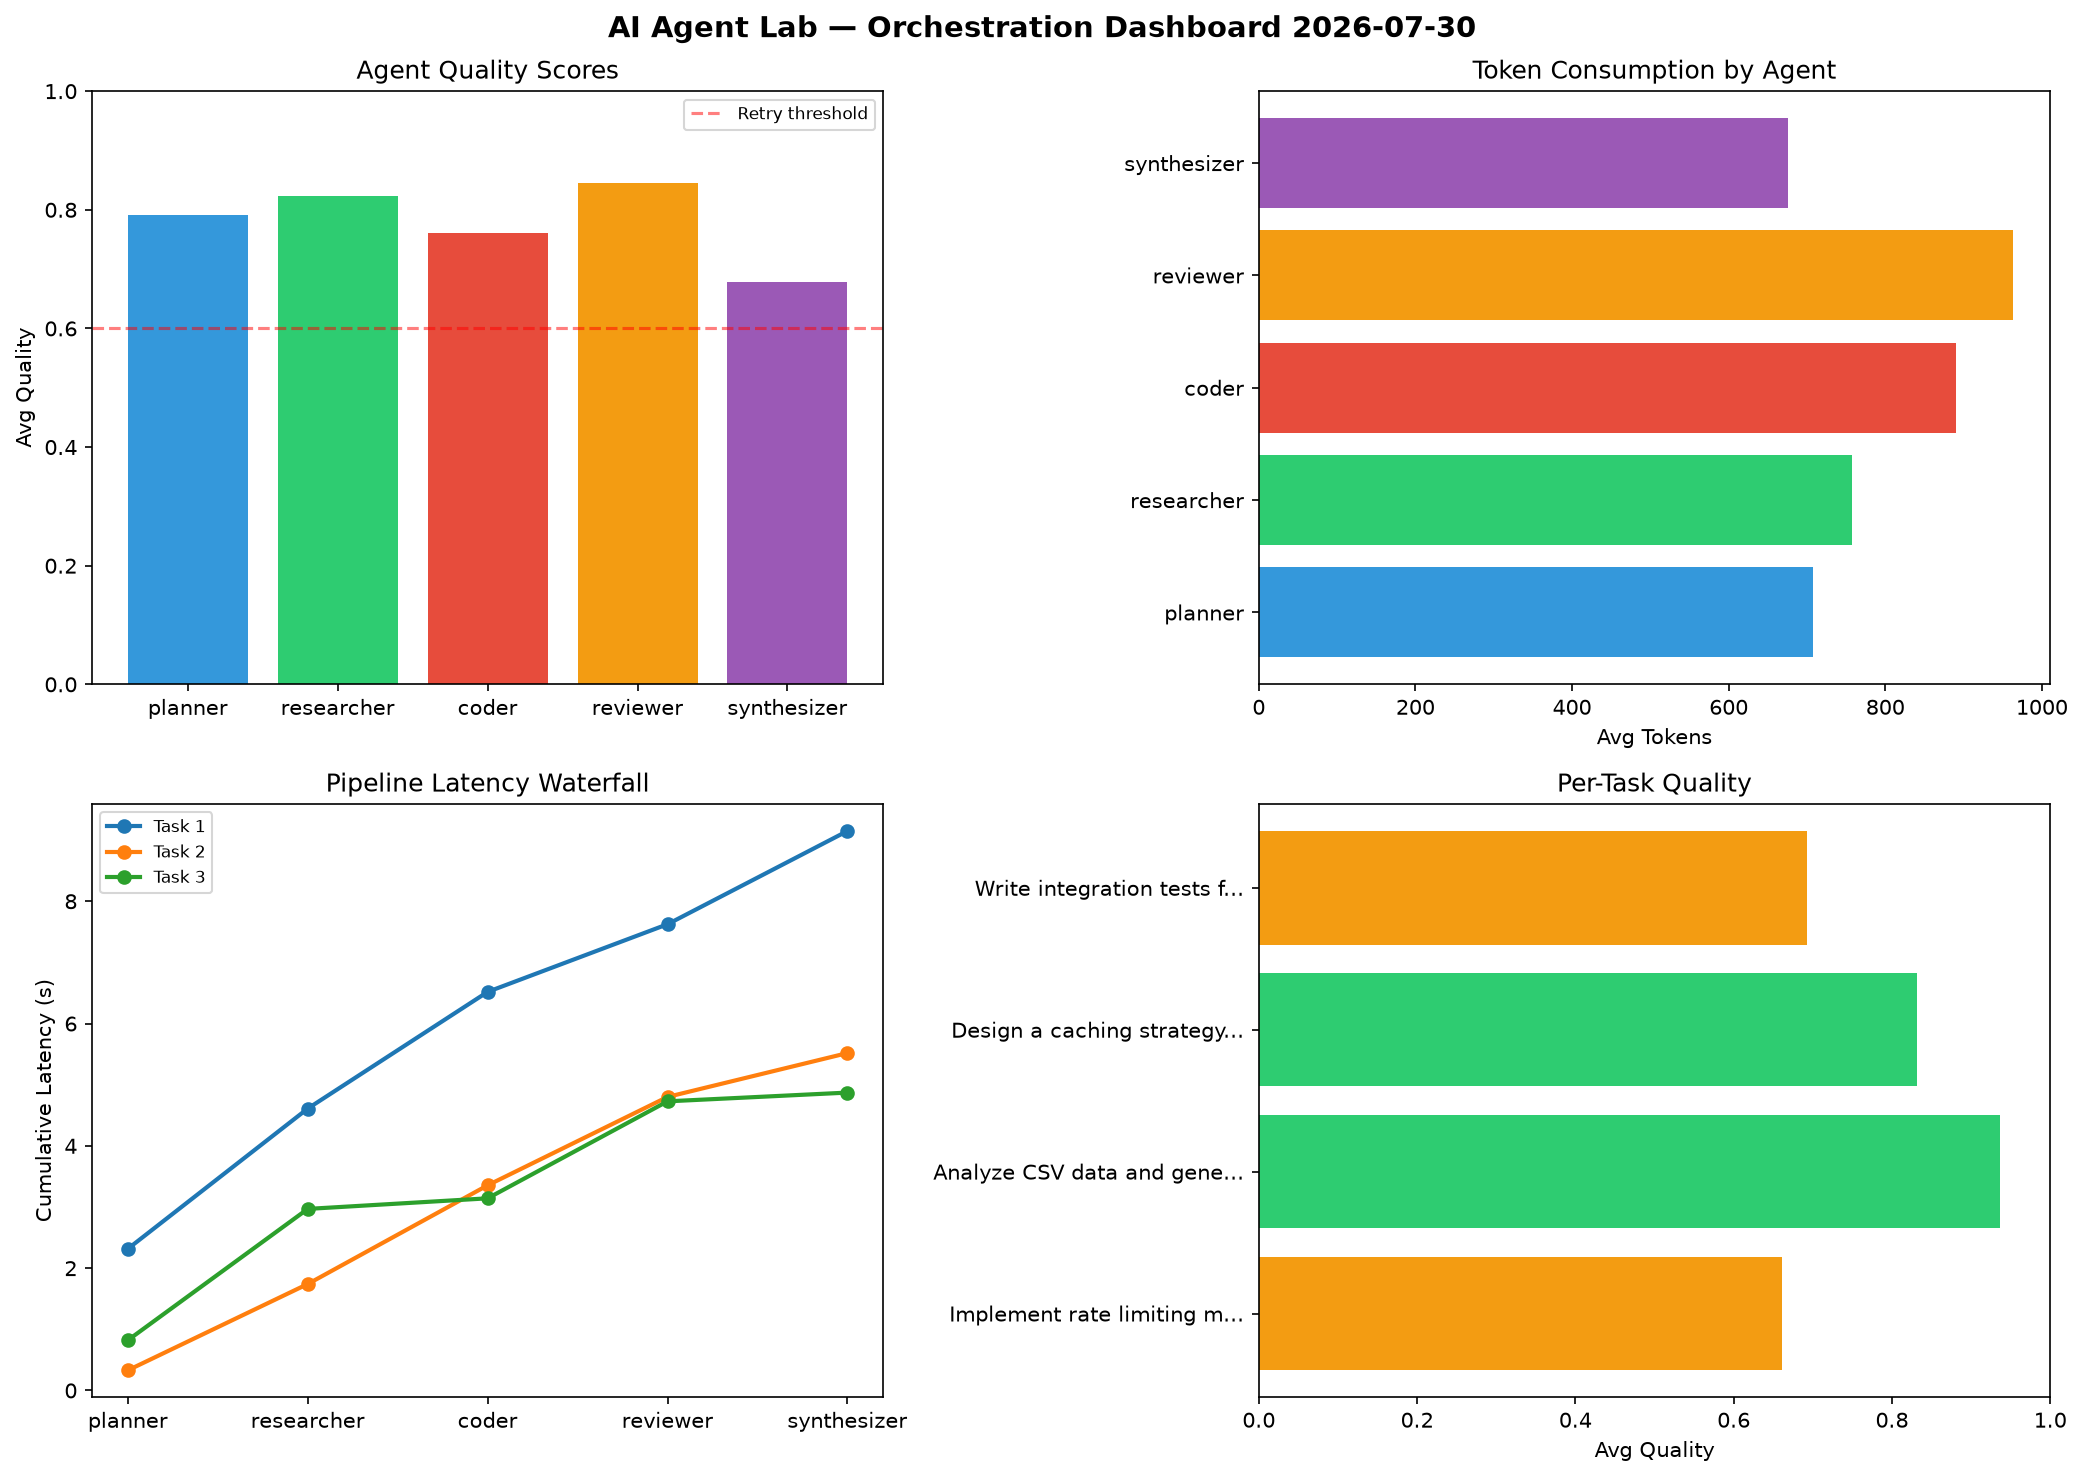
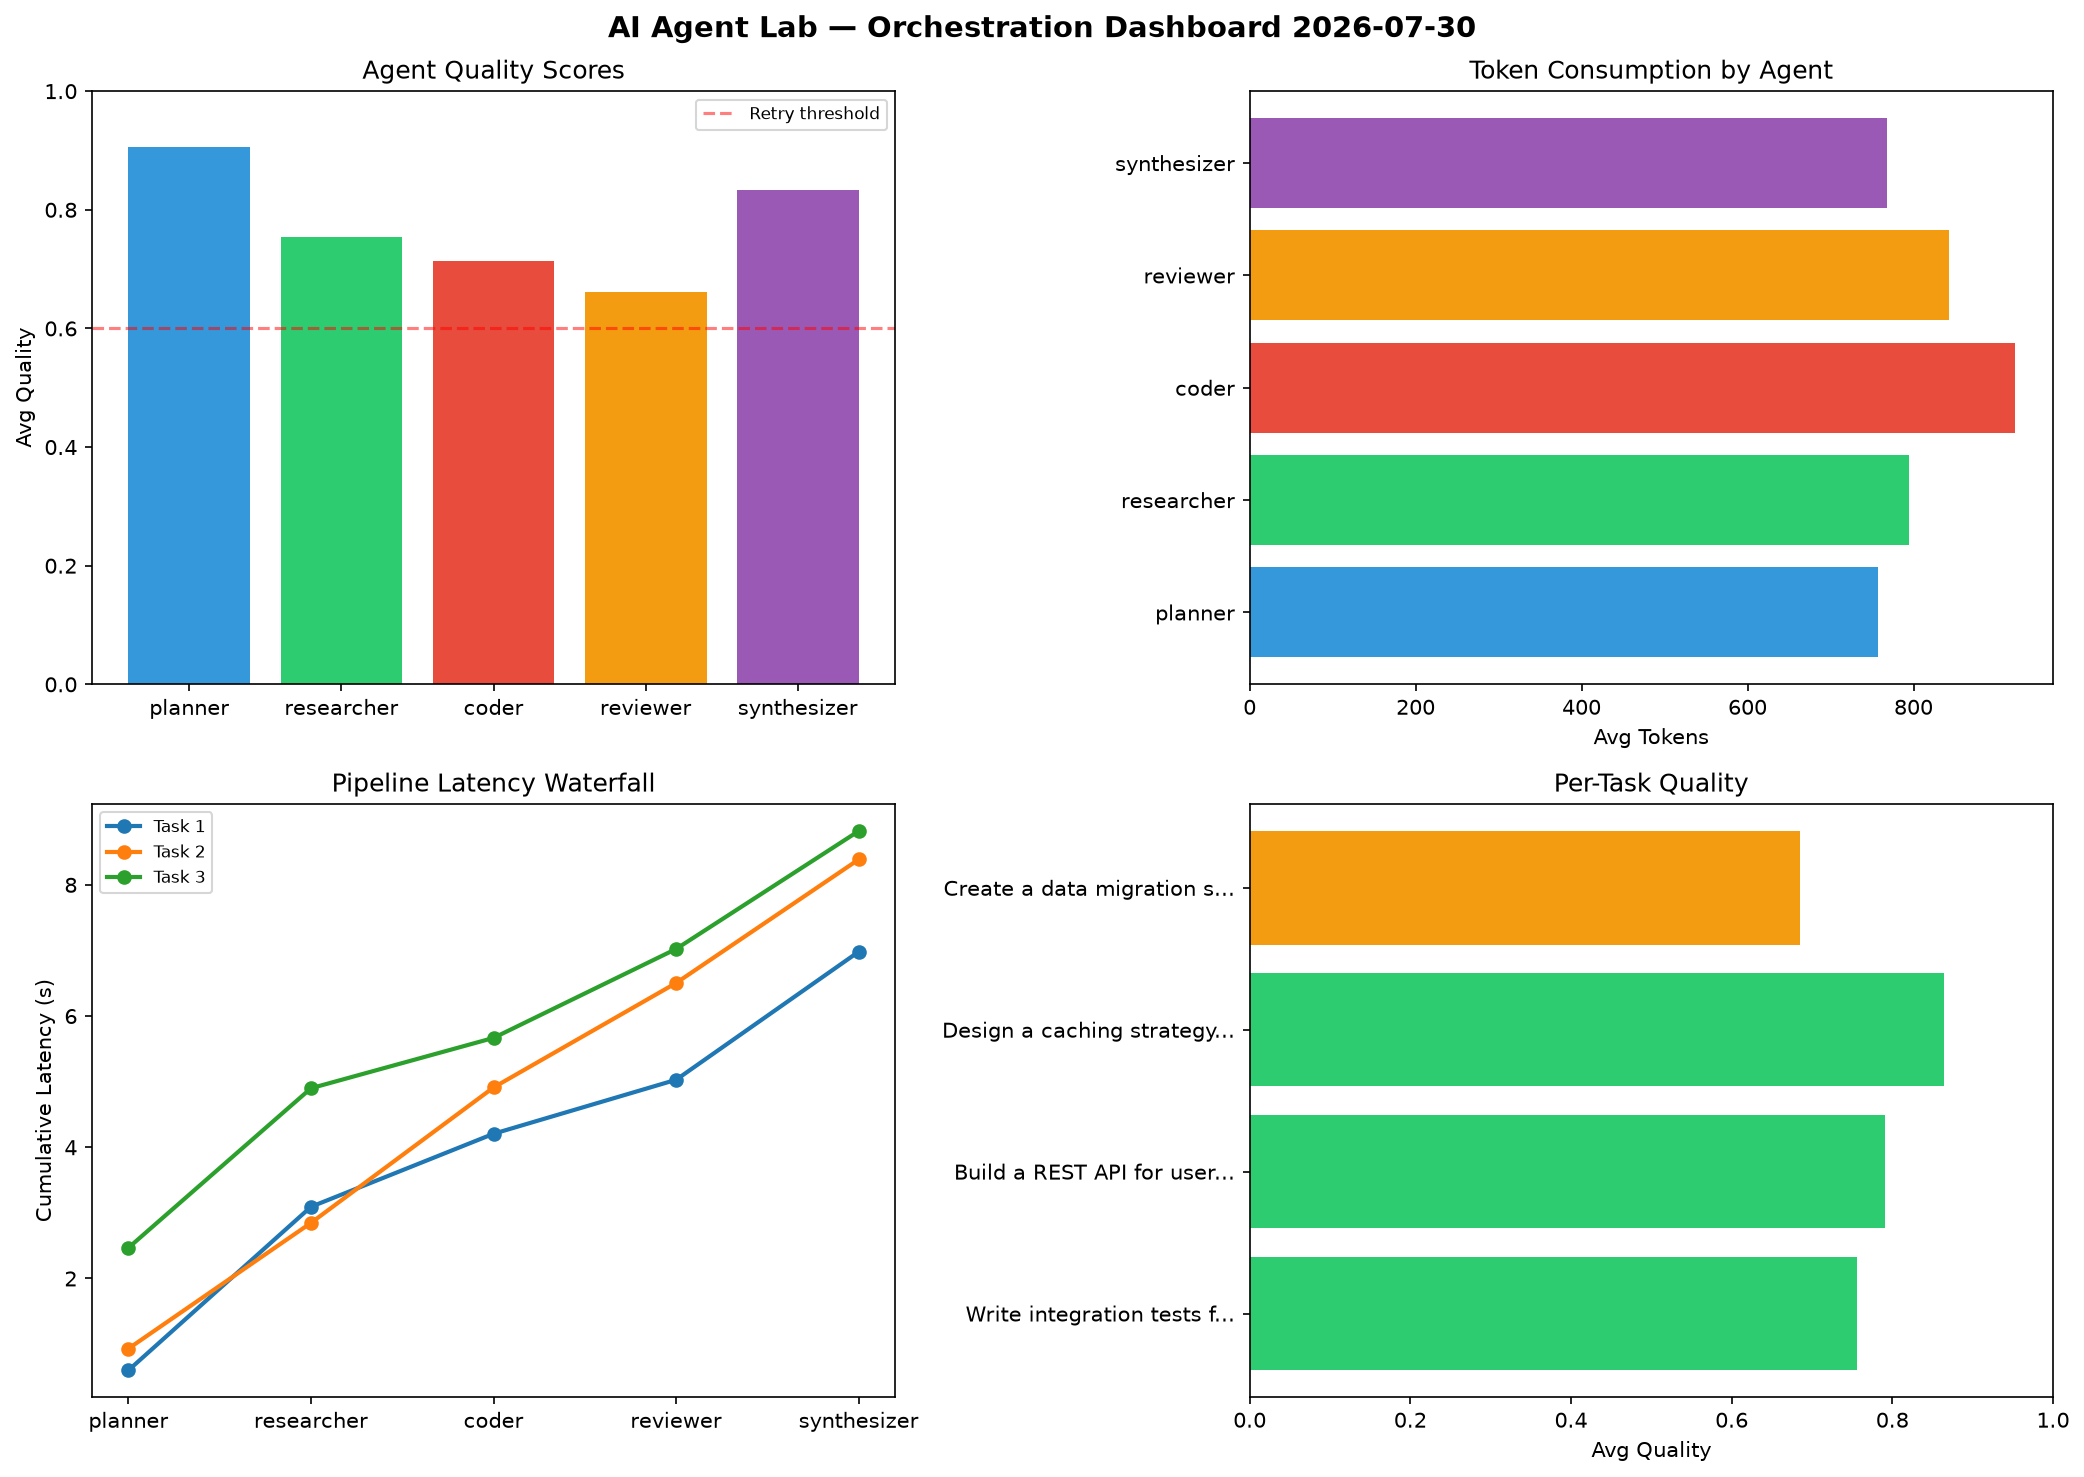
ai-agent-lab: orchestration run 2026-07-30T16:00

diff --git a/logs/2026-07-30.md b/logs/2026-07-30.md
@@ -1,6 +1,6 @@
 # AI Agent Lab — Orchestration Report 2026-07-30
 
-**Run ID:** `5271879b25` | **Tasks:** 4 | **Avg Quality:** 0.78
+**Run ID:** `08d1f4857f` | **Tasks:** 4 | **Avg Quality:** 0.774
 
 ![Dashboard](2026-07-30_dashboard.png)
 
@@ -8,52 +8,52 @@
 
 | Metric | Value |
 |--------|-------|
-| avg_latency | 6.536 |
-| total_tokens | 15976 |
-| avg_quality | 0.78 |
+| avg_latency | 6.992 |
+| total_tokens | 16341 |
+| avg_quality | 0.774 |
 
 ## Delta vs Yesterday
 
 | Metric | Today | Yesterday | Change |
 |--------|-------|-----------|--------|
-| avg_latency | 6.536 | 5.769 | 📈 13.3% |
-| total_tokens | 15976 | 14730 | 📈 8.5% |
-| avg_quality | 0.78 | 0.693 | 📈 12.6% |
+| avg_latency | 6.992 | 5.769 | 📈 21.2% |
+| total_tokens | 16341 | 14730 | 📈 10.9% |
+| avg_quality | 0.774 | 0.693 | 📈 11.7% |
 
 ## Pipeline Results
-
-### Implement rate limiting middleware
-| Agent | Quality | Latency | Tokens | Status |
-|-------|---------|---------|--------|--------|
-| planner | 0.61 | 2.317s | 746 | success |
-| researcher | 0.92 | 2.293s | 930 | success |
-| coder | 0.673 | 1.908s | 984 | success |
-| reviewer | 0.578 | 1.106s | 1042 | needs_retry |
-| synthesizer | 0.526 | 1.524s | 403 | needs_retry |
-
-### Analyze CSV data and generate statistical summary
-| Agent | Quality | Latency | Tokens | Status |
-|-------|---------|---------|--------|--------|
-| planner | 0.777 | 0.33s | 721 | success |
-| researcher | 0.986 | 1.411s | 763 | success |
-| coder | 0.973 | 1.614s | 821 | success |
-| reviewer | 0.967 | 1.445s | 834 | success |
-| synthesizer | 0.976 | 0.717s | 522 | success |
-
-### Design a caching strategy for high-traffic endpoints
-| Agent | Quality | Latency | Tokens | Status |
-|-------|---------|---------|--------|--------|
-| planner | 0.952 | 0.822s | 693 | success |
-| researcher | 0.825 | 2.147s | 465 | success |
-| coder | 0.799 | 0.173s | 922 | success |
-| reviewer | 0.985 | 1.586s | 976 | success |
-| synthesizer | 0.597 | 0.143s | 1039 | needs_retry |
 
 ### Write integration tests for payment processing module
 | Agent | Quality | Latency | Tokens | Status |
 |-------|---------|---------|--------|--------|
-| planner | 0.829 | 2.147s | 672 | success |
-| researcher | 0.561 | 1.513s | 874 | needs_retry |
-| coder | 0.601 | 0.254s | 832 | success |
-| reviewer | 0.852 | 2.448s | 998 | success |
-| synthesizer | 0.617 | 0.247s | 739 | success |
+| planner | 0.965 | 0.601s | 801 | success |
+| researcher | 0.73 | 2.492s | 792 | success |
+| coder | 0.592 | 1.113s | 1181 | needs_retry |
+| reviewer | 0.516 | 0.823s | 861 | needs_retry |
+| synthesizer | 0.977 | 1.952s | 499 | success |
+
+### Build a REST API for user authentication
+| Agent | Quality | Latency | Tokens | Status |
+|-------|---------|---------|--------|--------|
+| planner | 0.807 | 0.931s | 1051 | success |
+| researcher | 0.635 | 1.917s | 493 | success |
+| coder | 0.805 | 2.064s | 1171 | success |
+| reviewer | 0.798 | 1.592s | 778 | success |
+| synthesizer | 0.909 | 1.883s | 708 | success |
+
+### Design a caching strategy for high-traffic endpoints
+| Agent | Quality | Latency | Tokens | Status |
+|-------|---------|---------|--------|--------|
+| planner | 0.93 | 2.468s | 544 | success |
+| researcher | 0.988 | 2.432s | 1066 | success |
+| coder | 0.735 | 0.767s | 349 | success |
+| reviewer | 0.747 | 1.356s | 694 | success |
+| synthesizer | 0.921 | 1.797s | 1030 | success |
+
+### Create a data migration script for schema v2
+| Agent | Quality | Latency | Tokens | Status |
+|-------|---------|---------|--------|--------|
+| planner | 0.924 | 1.243s | 635 | success |
+| researcher | 0.666 | 0.541s | 826 | success |
+| coder | 0.724 | 0.862s | 987 | success |
+| reviewer | 0.582 | 0.572s | 1038 | needs_retry |
+| synthesizer | 0.527 | 0.56s | 837 | needs_retry |
